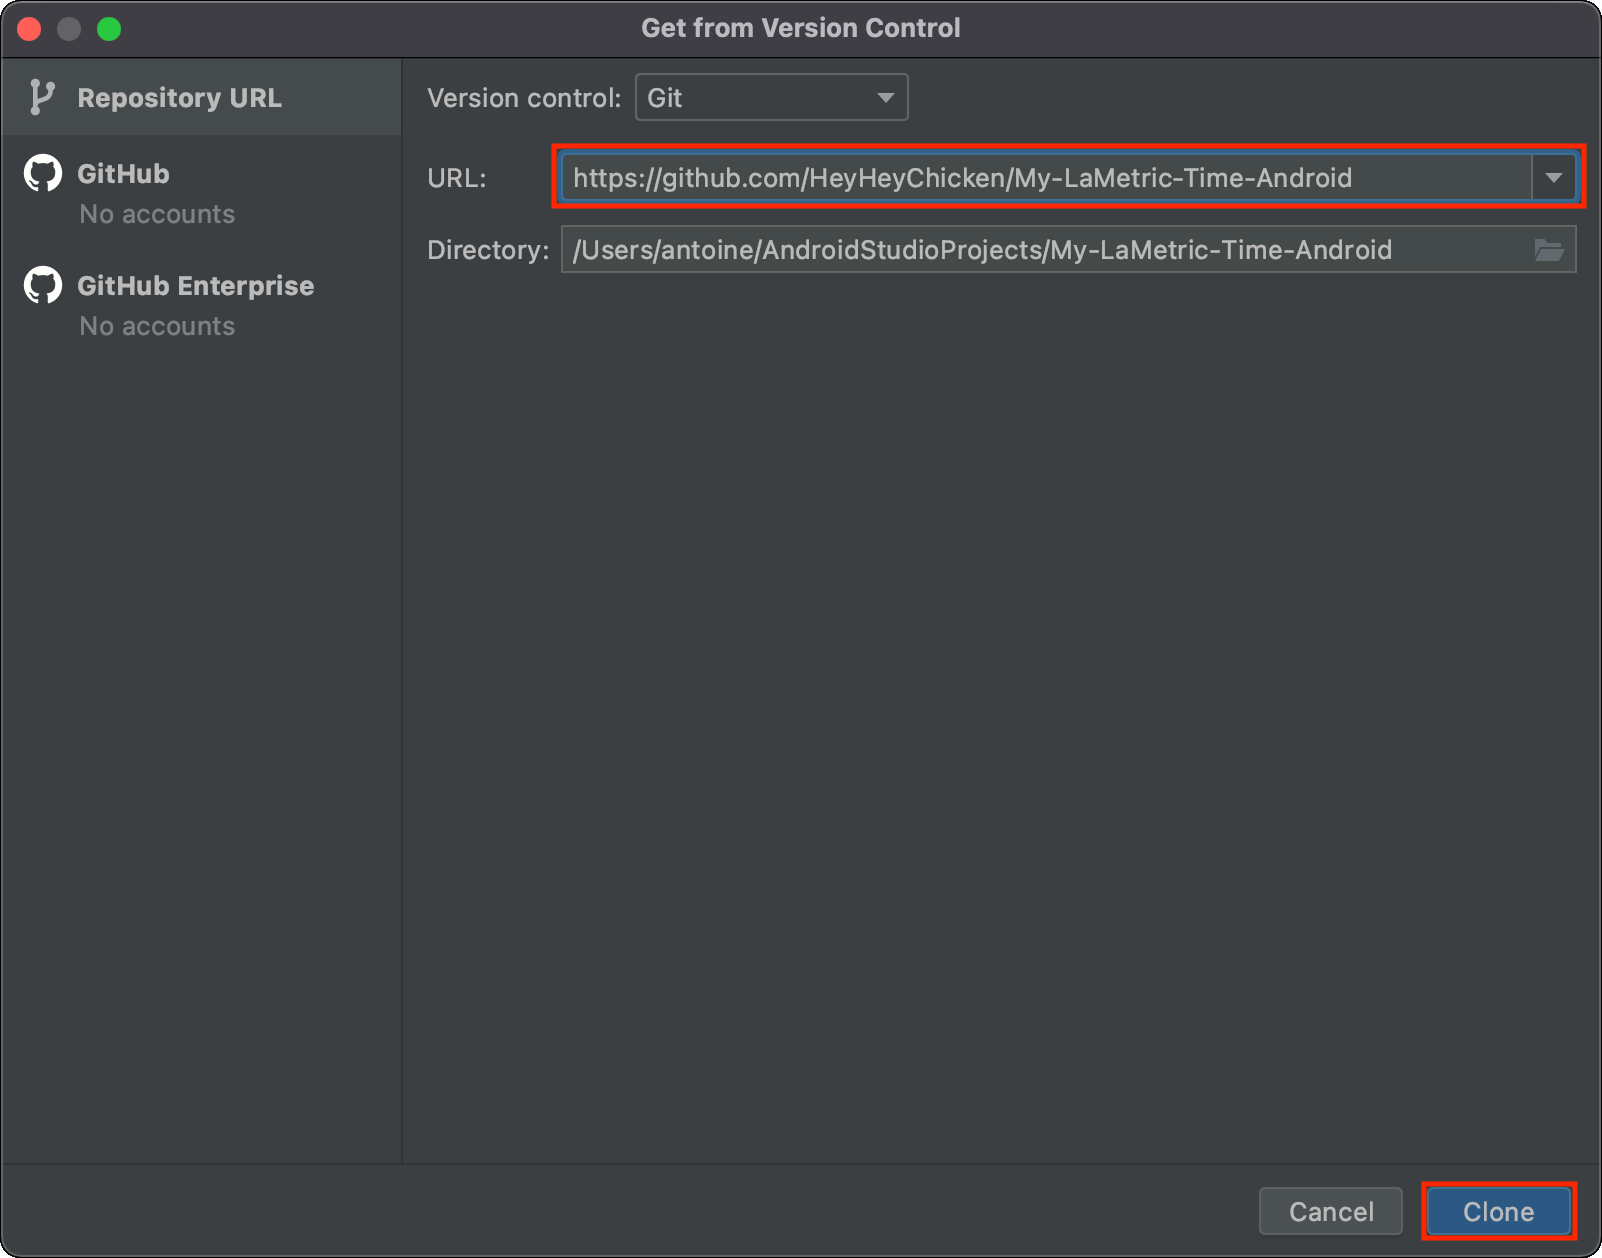
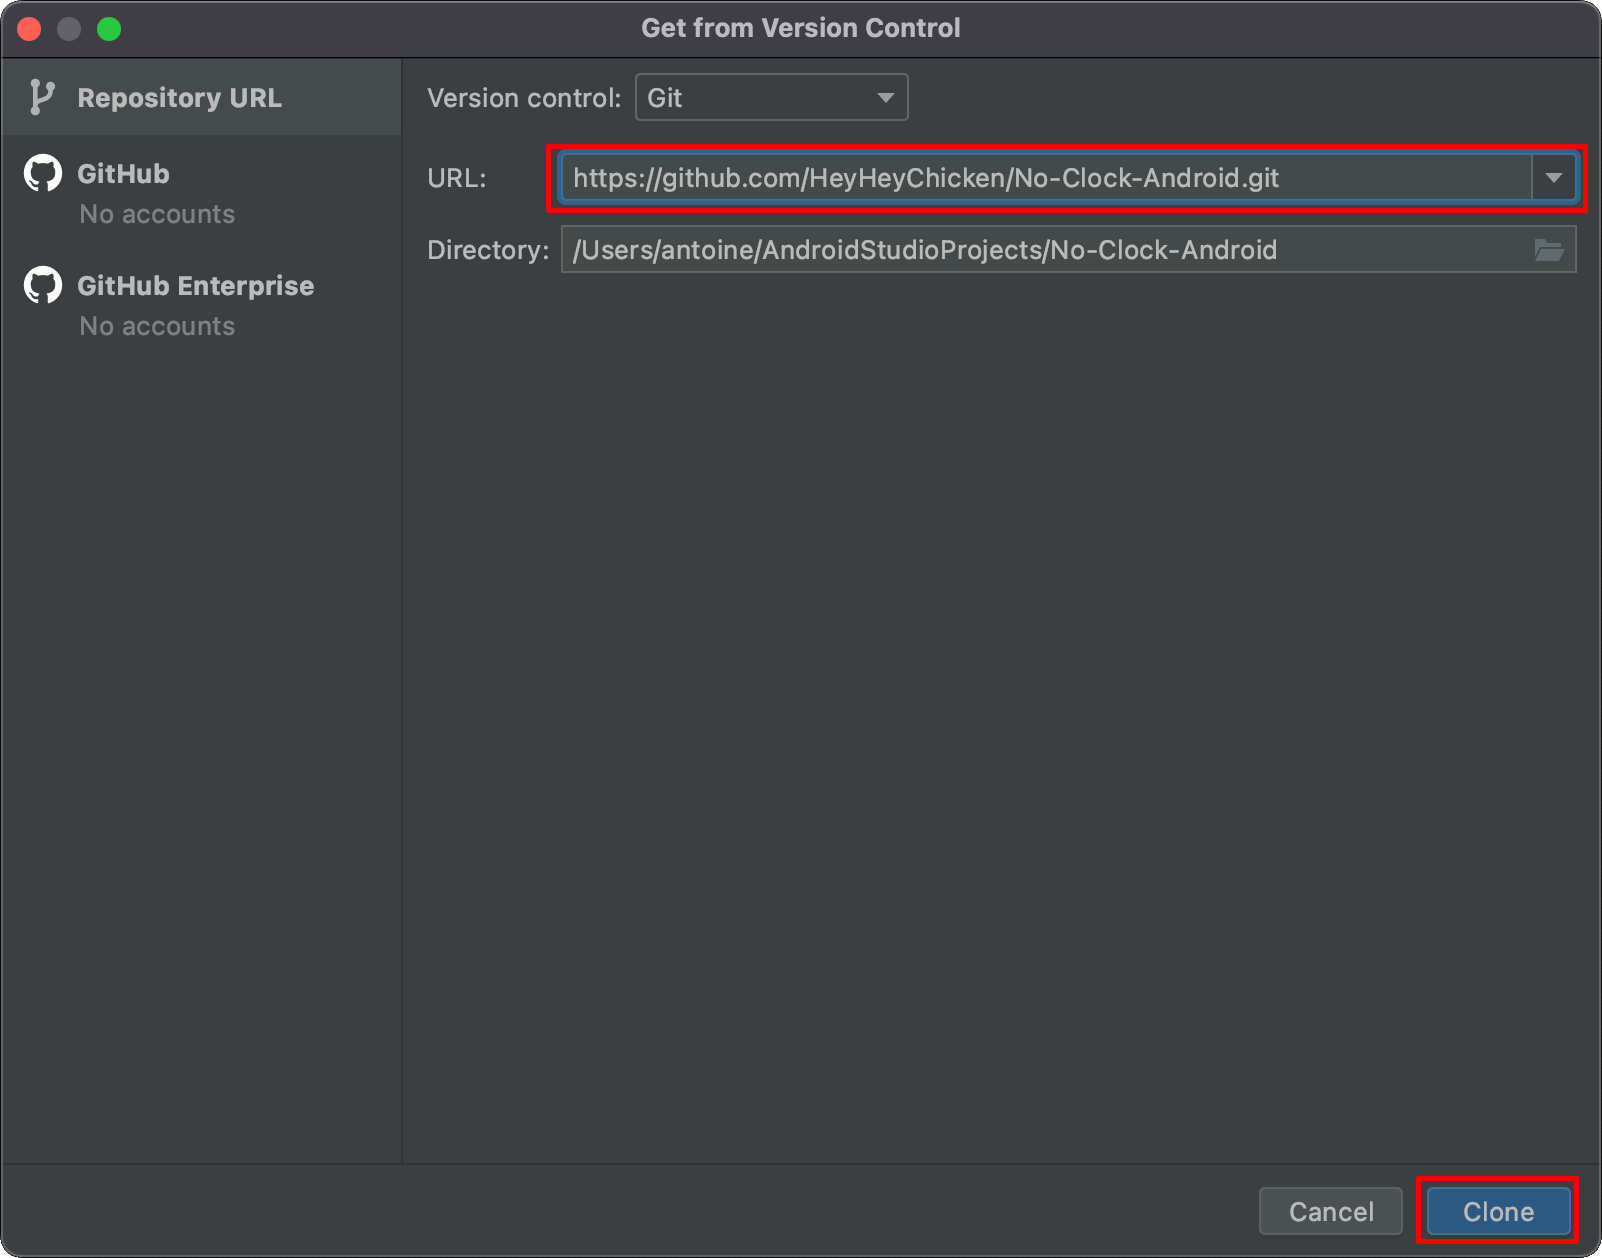
Update install

Changed region(s): [[0.3433, 0.093, 0.9988, 0.217], [0.8739, 0.93, 1.0, 0.9921], [0.9988, 0.0, 1.0, 0.031]]

diff --git a/README.md b/README.md
@@ -24,7 +24,7 @@
 1) Install and open Android Studio.
 2) Click on "Get from VCS".
 <img src="https://raw.githubusercontent.com/HeyHeyChicken/No-Clock-Android/main/resources/Installation_1.png">
-3) Paste "https://github.com/HeyHeyChicken/No-Clock-Android" in the URL field then click "Clone".
+3) Paste "https://github.com/HeyHeyChicken/No-Clock-Android.git" in the URL field then click "Clone".
 <img src="https://raw.githubusercontent.com/HeyHeyChicken/No-Clock-Android/main/resources/Installation_2.png">
 4) Your project will be downloaded and opened. Click on "Trust Project".
 <img src="https://raw.githubusercontent.com/HeyHeyChicken/No-Clock-Android/main/resources/Installation_3.png">
